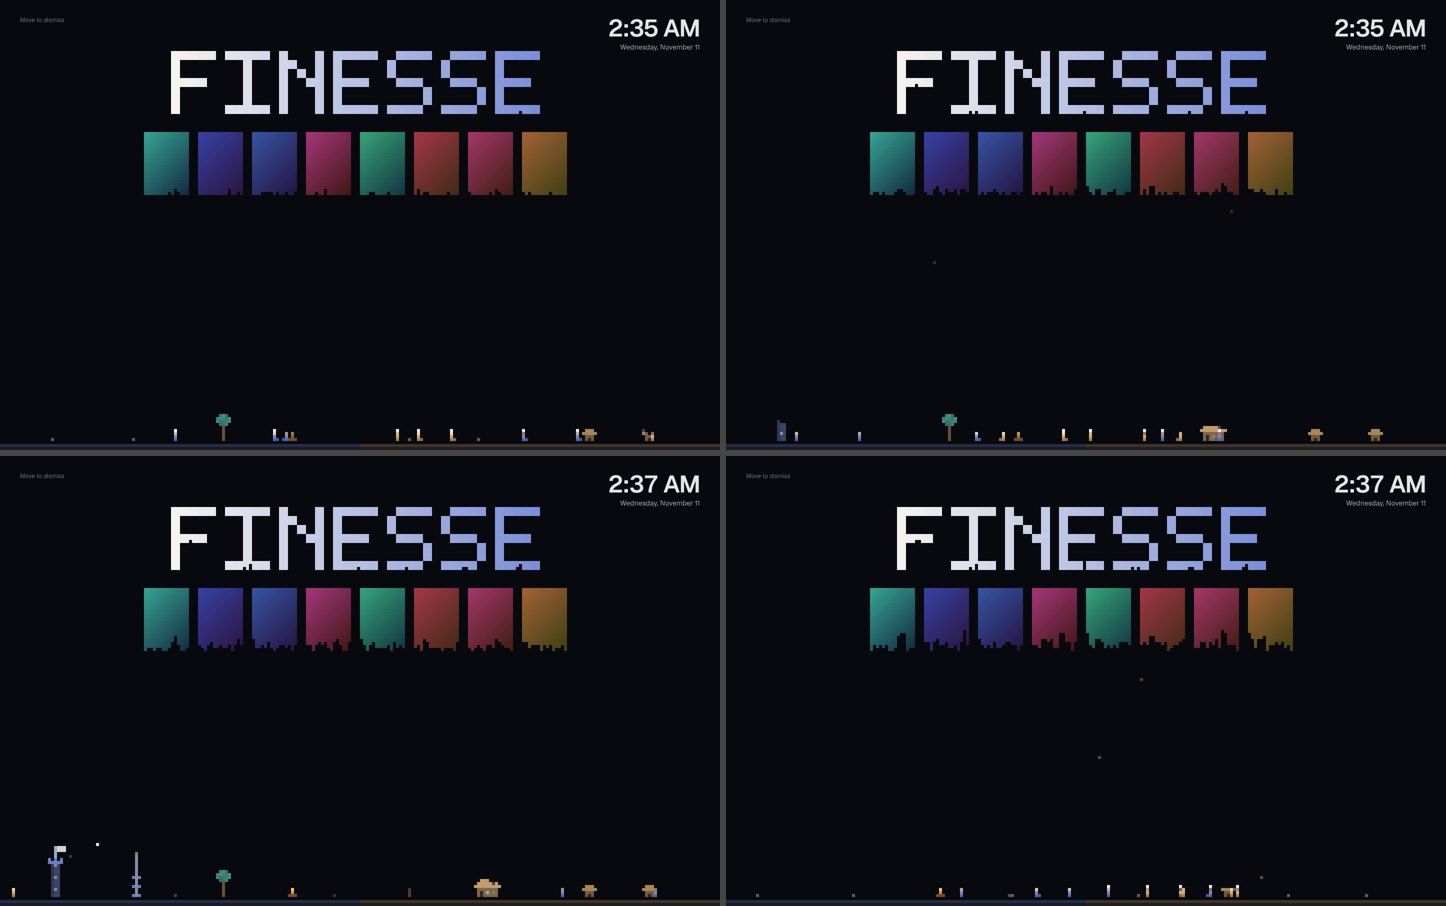
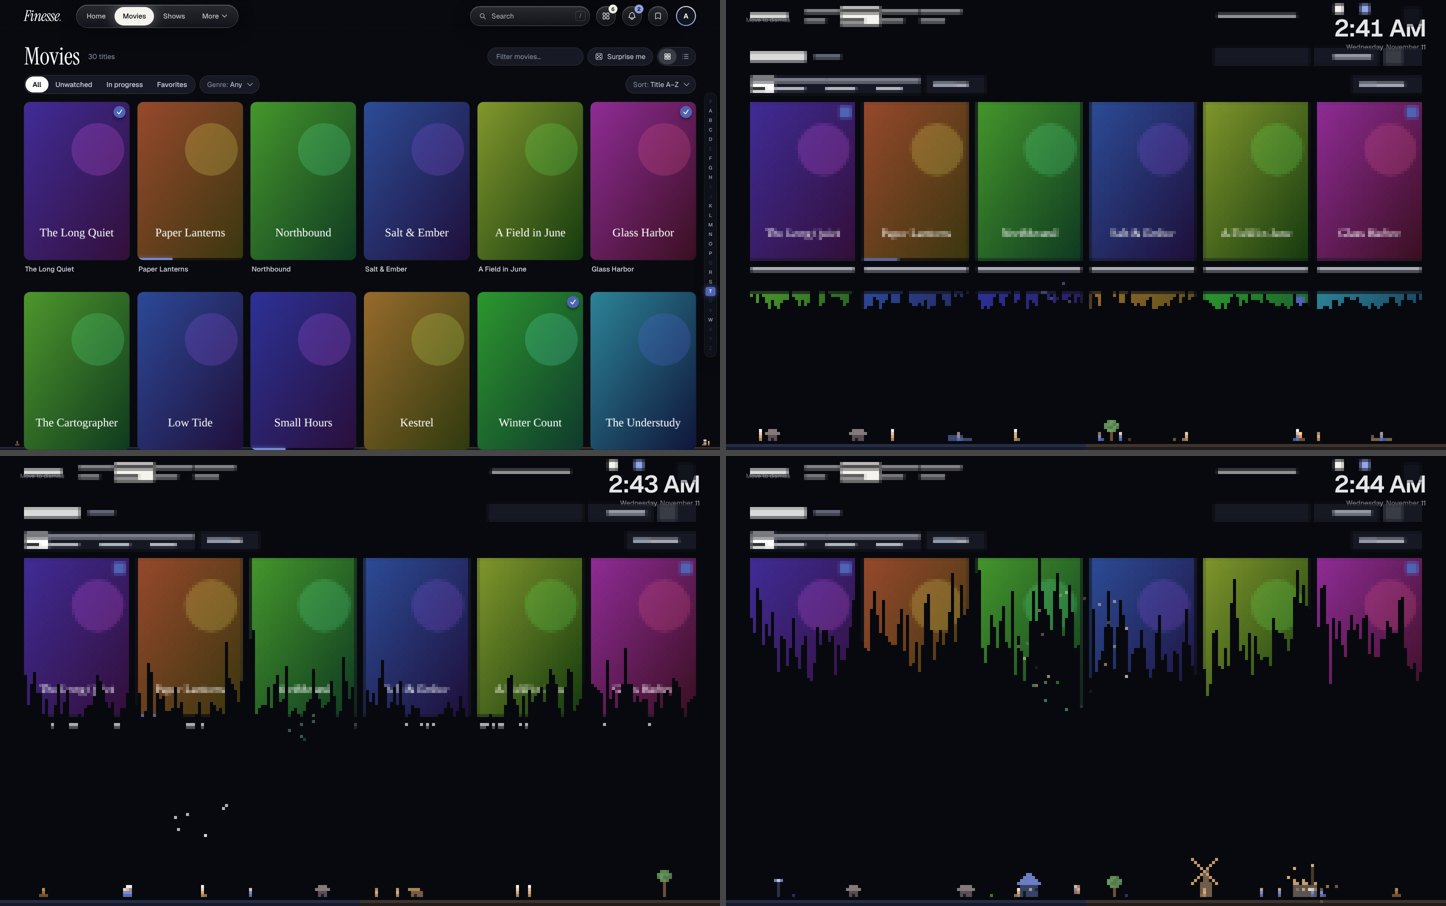
Pixel folk screensaver: they take apart a pixel copy of the screen you left open
pagePixels draws the visible page into a low-resolution canvas (images
scaled down, backgrounds as blocks, text as bars). The folk mine it from
the bottom of each column; the real page is untouched and returns on any
input. The pixel wordmark stays as the fallback for an empty screen.

Claude-Session: https://claude.ai/code/session_01GtnRRYLw8qHg4XX16xDMoT

diff --git a/src/components/PixelFolk.tsx b/src/components/PixelFolk.tsx
@@ -13,9 +13,12 @@ import { getPrefs, reducedMotion } from '../lib/settings'
 // world begins.
 //
 // As the screensaver (full), the world is the whole screen, and what they build with has to come
-// from somewhere: a little pixel Finesse hangs in the sky (its name, a row of posters), and they
-// take it apart block by block, each one falling to the ground to be carried off. When there's
-// nothing left of it, it comes back.
+// from somewhere: the screen you left open. A chunky pixel copy of it is taken as the screensaver
+// starts (pagePixels: every poster, card, button and line of text, as blocks), and they take THAT
+// apart from the bottom up, each block falling to the ground to be carried off, with a little
+// rubble coming loose around it. The real page is never touched: move the mouse and it's back.
+// When there's nothing left of the copy, it comes back too. (On a screen with nothing to copy, a
+// little pixel Finesse hangs in the sky instead: its name and a shelf of posters.)
 //
 // They wear the app's colours: one camp the accent, the other its opposite on the wheel, so
 // changing the accent in Settings re-dresses them. They notice you: they scatter from a fast
@@ -119,6 +122,68 @@ interface Spark {
   life: number
   c: RGB
   g: number
+}
+
+/**
+ * The page as it is right now, as a w×h canvas of chunky pixels: images drawn small, anything with
+ * a background as a block of its colour, text as bars of its colour. Null when there's too little
+ * on screen to be worth taking apart. Nothing is read back from the images, so it works whatever
+ * server they came from.
+ */
+function pagePixels(w: number, h: number, scale: number): HTMLCanvasElement | null {
+  try {
+    const c = document.createElement('canvas')
+    c.width = w
+    c.height = h
+    const g = c.getContext('2d')!
+    g.imageSmoothingEnabled = true
+    const vw = window.innerWidth
+    const vh = window.innerHeight
+    let drawn = 0
+    const els = document.querySelectorAll<HTMLElement>('#root *')
+    for (let i = 0; i < els.length && drawn < 2500; i++) {
+      const el = els[i]!
+      if (el.closest('.marquee-in, .pixel-folk')) continue
+      const b = el.getBoundingClientRect()
+      if (b.width < 3 || b.height < 3 || b.bottom < 0 || b.top > vh || b.right < 0 || b.left > vw) continue
+      const x = b.left / scale
+      const y = b.top / scale
+      const bw = b.width / scale
+      const bh = b.height / scale
+      if (el instanceof HTMLImageElement) {
+        if (el.complete && el.naturalWidth > 0) {
+          g.globalAlpha = 1
+          g.drawImage(el, x, y, bw, bh)
+          drawn++
+        }
+        continue
+      }
+      const cs = getComputedStyle(el)
+      if (cs.visibility === 'hidden' || cs.display === 'none' || Number(cs.opacity) < 0.05) continue
+      const bg = cs.backgroundColor
+      if (bg && bg !== 'transparent' && !/, 0\)$/.test(bg) && b.width < vw * 0.98) {
+        g.globalAlpha = 1
+        g.fillStyle = bg
+        g.fillRect(x, y, bw, bh)
+        drawn++
+      }
+      // Its own words (not its children's), as a bar of the text's colour.
+      let words = false
+      for (const n of el.childNodes) if (n.nodeType === 3 && n.textContent && n.textContent.trim().length > 1) words = true
+      if (words) {
+        g.globalAlpha = 0.85
+        g.fillStyle = cs.color
+        const lines = Math.max(1, Math.round(b.height / (parseFloat(cs.lineHeight) || parseFloat(cs.fontSize) * 1.4 || 20)))
+        const lh = bh / lines
+        for (let l = 0; l < lines; l++) g.fillRect(x, y + l * lh + lh * 0.3, Math.max(1, bw * (l === lines - 1 && lines > 1 ? 0.6 : 1)), Math.max(1, lh * 0.4))
+        drawn++
+      }
+    }
+    g.globalAlpha = 1
+    return drawn >= 12 ? c : null
+  } catch {
+    return null
+  }
 }
 
 const FONT: Record<string, string[]> = {
@@ -250,6 +315,9 @@ export default function PixelFolk({ full = false }: { full?: boolean } = {}) {
     /** The little pixel Finesse in the sky (screensaver), and blocks of it on their way down. */
     let sky: { x: number; y: number; c: RGB; there: boolean }[] = []
     let drops: { x: number; y: number; vy: number; c: RGB; landed: boolean }[] = []
+    /** The pixel copy of the screen that was open (screensaver), and how much of each column is left. */
+    let page: { canvas: HTMLCanvasElement; g: CanvasRenderingContext2D; bottom: Int16Array; readable: boolean } | null = null
+    let pageTried = false
 
     // The app's colours: one camp wears the accent, the other its opposite.
     let teams: RGB[] = [[117, 137, 216], [216, 160, 96]]
@@ -289,7 +357,19 @@ export default function PixelFolk({ full = false }: { full?: boolean } = {}) {
       drops = []
       age = 0
       progressAt = tick
-      if (full && !sky.some((c) => c.there)) {
+      if (full && (!page || !page.bottom.some((b) => b >= 0)) && (!pageTried || page)) {
+        // The screen that was left open, in chunky pixels, to be taken apart. (Again, once it's all gone.)
+        pageTried = true
+        const copy = pagePixels(W, HT, scale)
+        if (copy) {
+          const pg = copy.getContext('2d', { willReadFrequently: true })!
+          // The land along the bottom is theirs already.
+          pg.clearRect(0, HT - H - 1, W, H + 1)
+          page = { canvas: copy, g: pg, bottom: new Int16Array(W).fill(HT - H - 2), readable: true }
+          if (tick > 0) for (let i = 0; i < 4; i++) setTimeout(() => firework(W * 0.2 + r() * W * 0.6), i * 300)
+        } else page = null
+      }
+      if (full && !page && !sky.some((c) => c.there)) {
         // A new little Finesse to take apart: its name, then a shelf of posters.
         sky = []
         const word = 'FINESSE'
@@ -344,6 +424,8 @@ export default function PixelFolk({ full = false }: { full?: boolean } = {}) {
       canvas.width = W
       canvas.height = HT
       sky = []
+      page = null
+      pageTried = false
       settle()
     }
     size()
@@ -536,7 +618,43 @@ export default function PixelFolk({ full = false }: { full?: boolean } = {}) {
               f.target = p.x + (r() < 0.5 ? -8 - r() * 6 : p.w + 8 + r() * 6)
               // The screensaver: the block comes off the little Finesse in the sky. The lowest one
               // left in some column lets go and falls; they walk to where it lands.
-              const left = sky.filter((c) => c.there)
+              if (page) {
+                // The lowest block left in some column lets go and falls; a little rubble comes with it.
+                let col = -1
+                for (let k = 0; k < 24 && col < 0; k++) {
+                  const c = Math.floor(r() * W)
+                  if (page.bottom[c]! >= 0) col = c
+                }
+                if (col >= 0) {
+                  const py = page.bottom[col]!
+                  let colour: RGB = teams[f.team]!
+                  if (page.readable) {
+                    try {
+                      const d = page.g.getImageData(col, py, 1, 1).data
+                      if (d[3]! > 20) colour = [d[0]!, d[1]!, d[2]!]
+                    } catch {
+                      page.readable = false
+                    }
+                  }
+                  for (const c of [col, Math.min(W - 1, col + 1)]) {
+                    const b = page.bottom[c]!
+                    if (b < 0) continue
+                    page.g.clearRect(c, b - 1, 1, 2)
+                    page.bottom[c] = b - 2
+                  }
+                  drops.push({ x: col, y: py - oy, vy: 0, c: colour, landed: false })
+                  for (let k = 0; k < 5; k++) {
+                    const c = Math.max(0, Math.min(W - 1, col + Math.round((r() - 0.5) * 14)))
+                    const b = page.bottom[c]!
+                    if (b < 0) continue
+                    page.g.clearRect(c, b, 1, 1)
+                    page.bottom[c] = b - 1
+                    sparks.push({ x: c, y: b - oy, vx: (r() - 0.5) * 0.3, vy: 0, life: 40 + r() * 30, c: mix(colour, [120, 124, 140], 0.4), g: 0.07 })
+                  }
+                  f.target = col
+                }
+              }
+              const left = page ? [] : sky.filter((c) => c.there)
               if (left.length) {
                 const col = left[Math.floor(r() * left.length)]!.x
                 const cell = left.filter((c) => c.x === col).sort((a, b) => b.y - a.y)[0]!
@@ -602,6 +720,7 @@ export default function PixelFolk({ full = false }: { full?: boolean } = {}) {
         g.fillStyle = css(c, a)
         g.fillRect(Math.round(x), Math.round(y), 1, 1)
       }
+      if (page) g.drawImage(page.canvas, 0, -oy)
       for (const c of sky) if (c.there) px(c.x, c.y, c.c)
       for (const d of drops) px(d.x, d.y, d.c)
       // Ground: a soft line, each camp's half in its own colour.

diff --git a/TODO.md b/TODO.md
@@ -48,10 +48,11 @@
   wear your accent colour, scatter from a fast mouse and gather round a still one, run to a
   star you drop by clicking bare ground, hop to the interface's sounds and bob while music
   plays. Computers only; Settings → Appearance turns them off.
-- **Pixel folk as the screensaver** — an option in Settings → Appearance. Their world fills the
-  screen, and a little pixel Finesse hangs in the sky: its name and a shelf of posters, which
-  they take apart block by block to build with. When it's all gone, it comes back.
-
+- **Pixel folk as the screensaver** — an option in Settings → Appearance. When Finesse goes idle,
+  the screen you left open turns into chunky pixels and their world fills the bottom of it.
+  They take your screen apart from the bottom up to build with: each block falls to the ground
+  and is carried off, with a little rubble coming loose around it. It's only a copy: move the
+  mouse and your real screen is back, untouched. When the copy is all gone, it comes back too.
 - **Moments is a feed** — everything the people here and on friends' servers flagged for you,
   and your own, newest first. Press play on a card and just that scene plays right there,
   streamed from the server that has it (yours or your friend's), then stops. New moments drop
